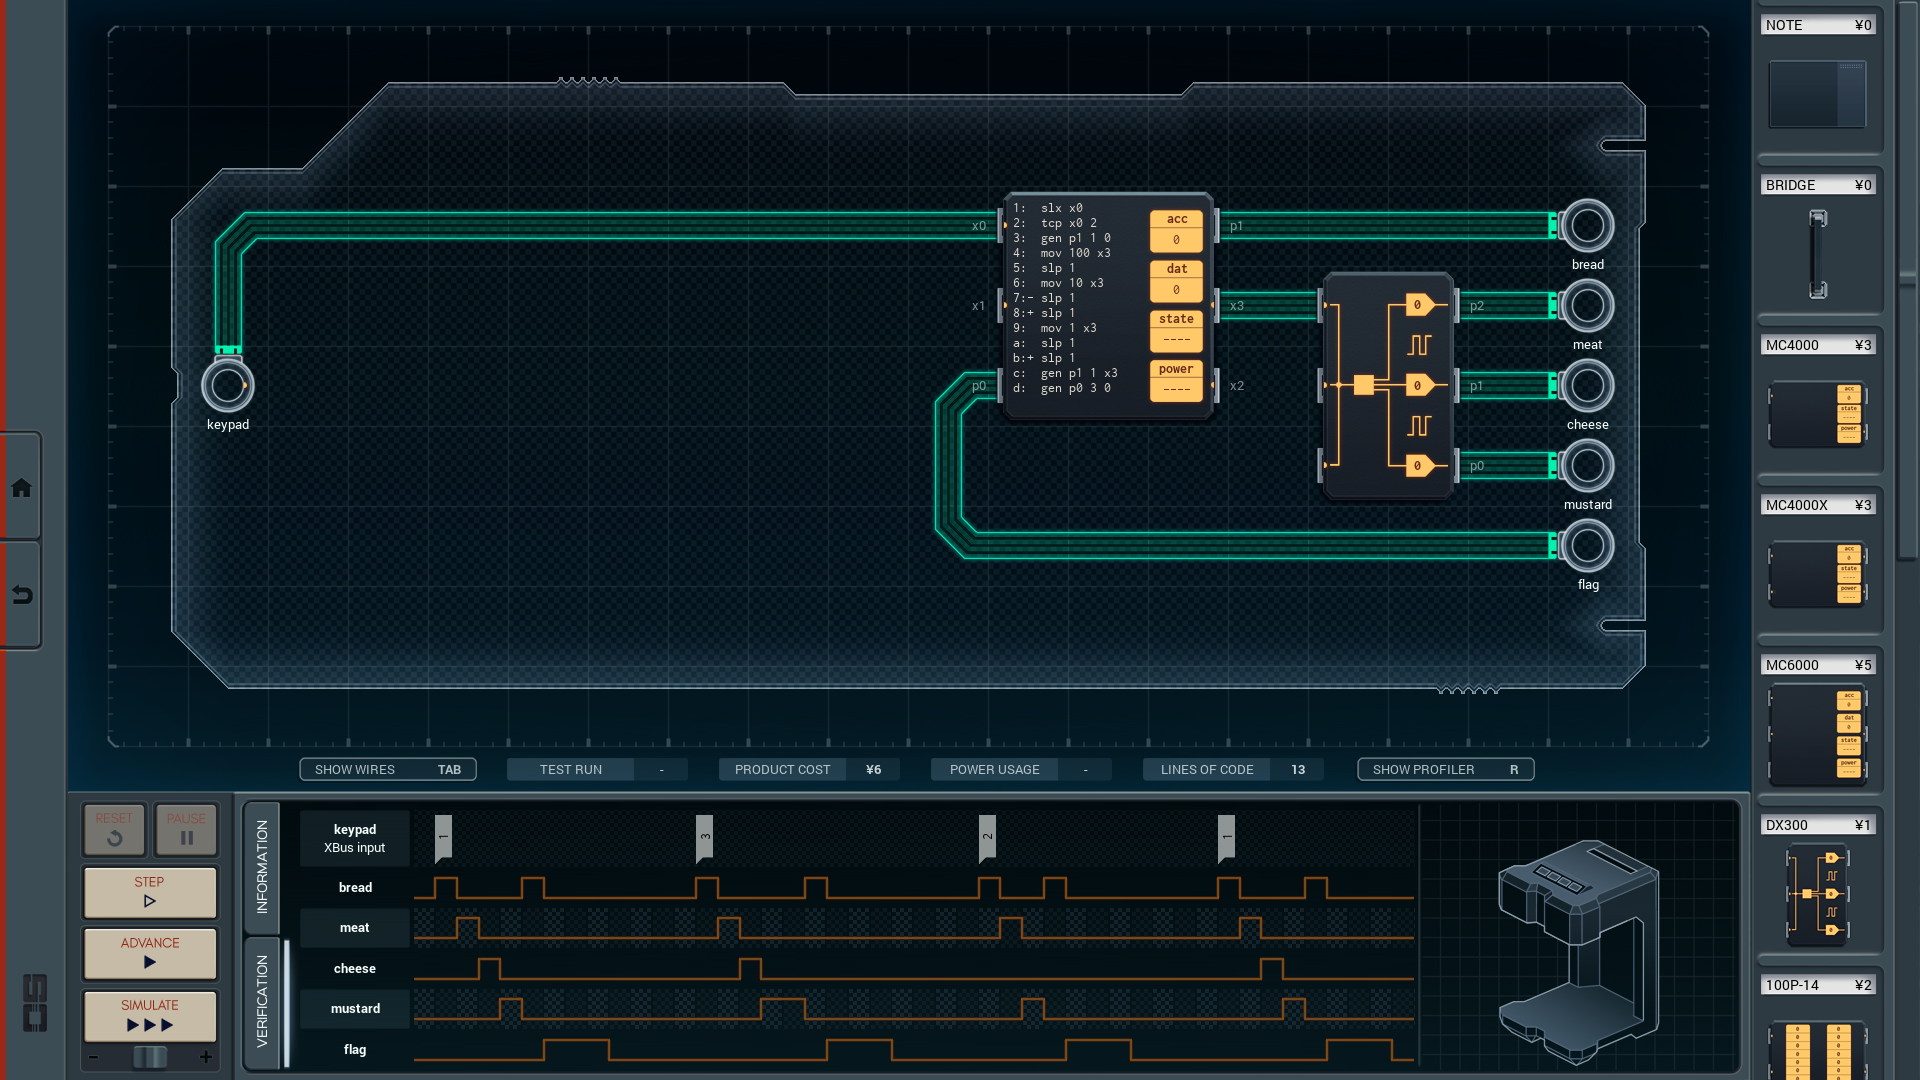
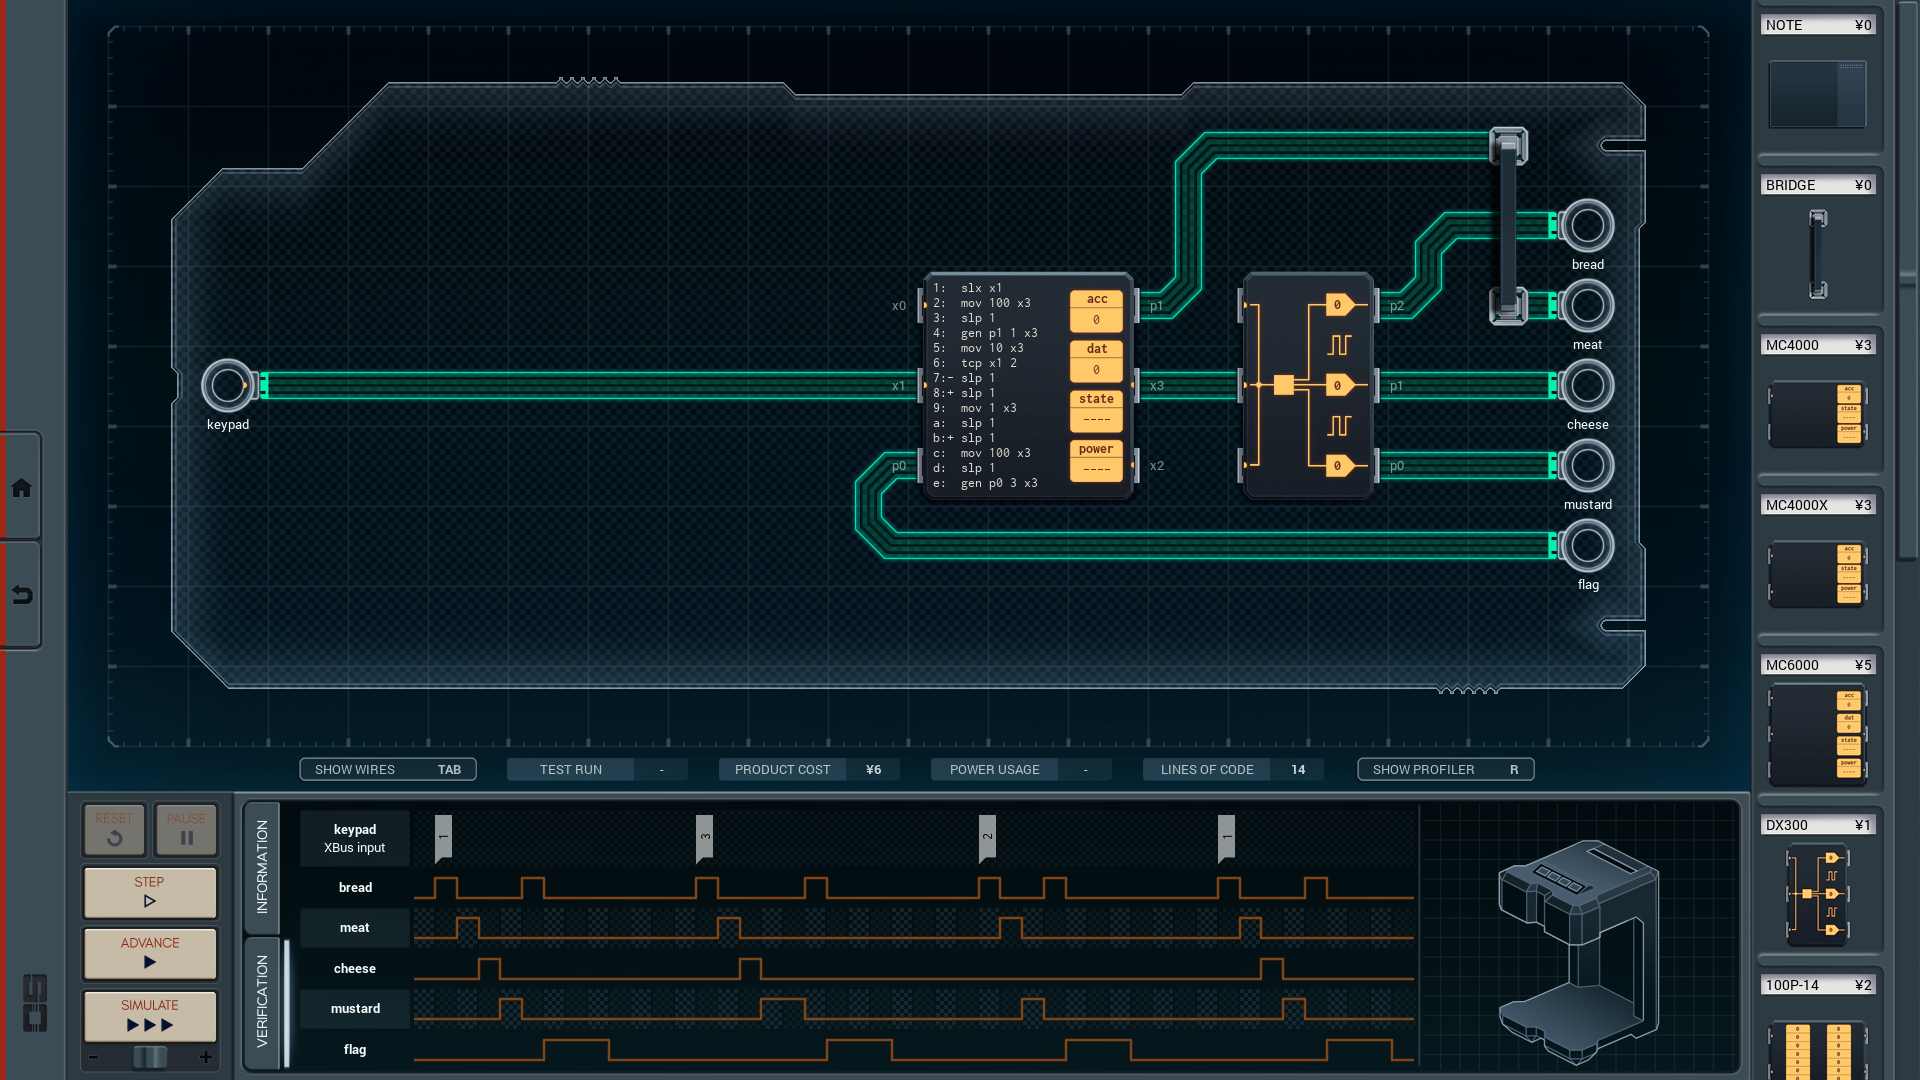
2023/05/26 Merged min cost solution & min power solution for Personal Sandwich Maker.
[BEF] 6C / 81P / 13L & 8C / 73P / 14L
[AFT] 6C / 73P / 14L

Changed region(s): [[0.0938, 0.1222, 0.8125, 0.5194]]

diff --git a/014-personal-sandwich-maker/README.md b/014-personal-sandwich-maker/README.md
@@ -1,4 +1,4 @@
-6/81/13 (MIN COST) SOLUTION
+6/73/14 (MIN COST) SOLUTION
 ---------------------------
 
 ![screenshot0](https://github.com/shiawasenahikari/Shenzhen-IO-Solutions/blob/master/014-personal-sandwich-maker/screenshot0.png)
@@ -7,8 +7,3 @@
 -----------------------------
 
 ![screenshot1](https://github.com/shiawasenahikari/Shenzhen-IO-Solutions/blob/master/014-personal-sandwich-maker/screenshot1.png)
-
-8/73/14 (MIN POWER) SOLUTION
-----------------------------
-
-![screenshot2](https://github.com/shiawasenahikari/Shenzhen-IO-Solutions/blob/master/014-personal-sandwich-maker/screenshot2.png)
